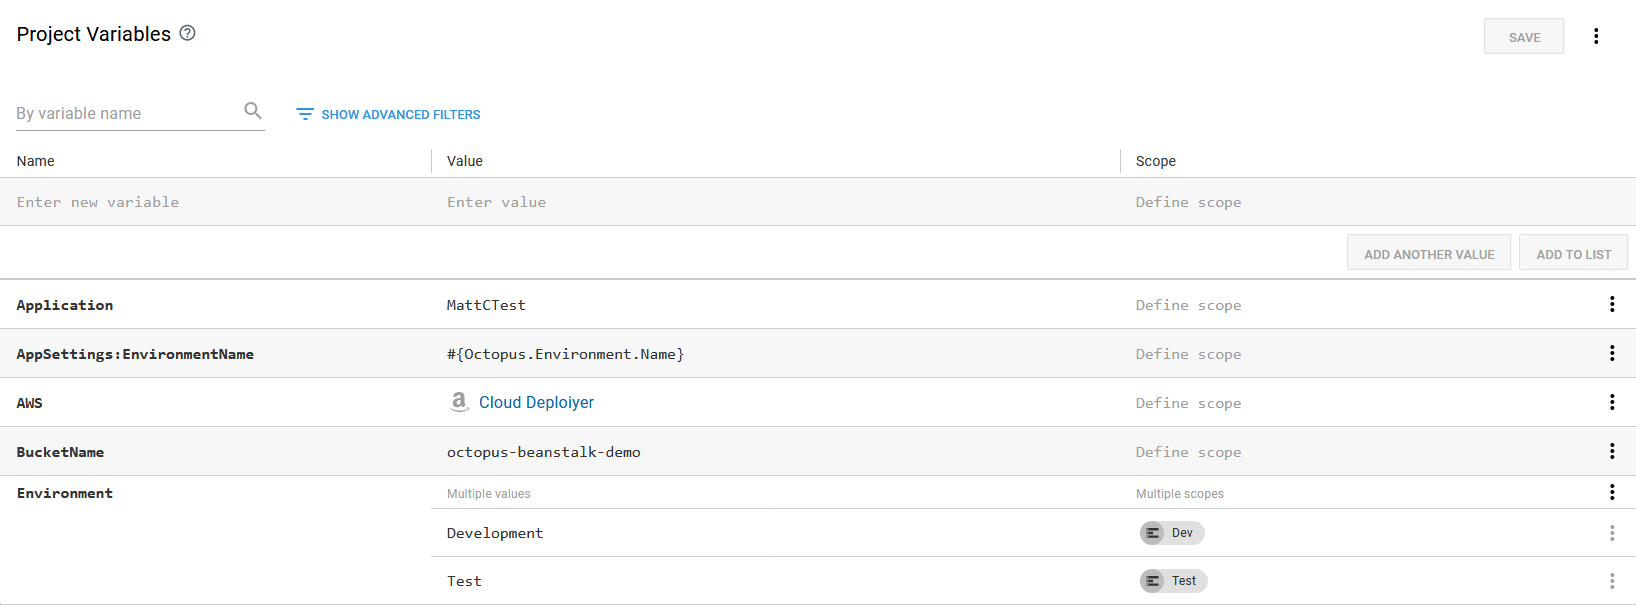
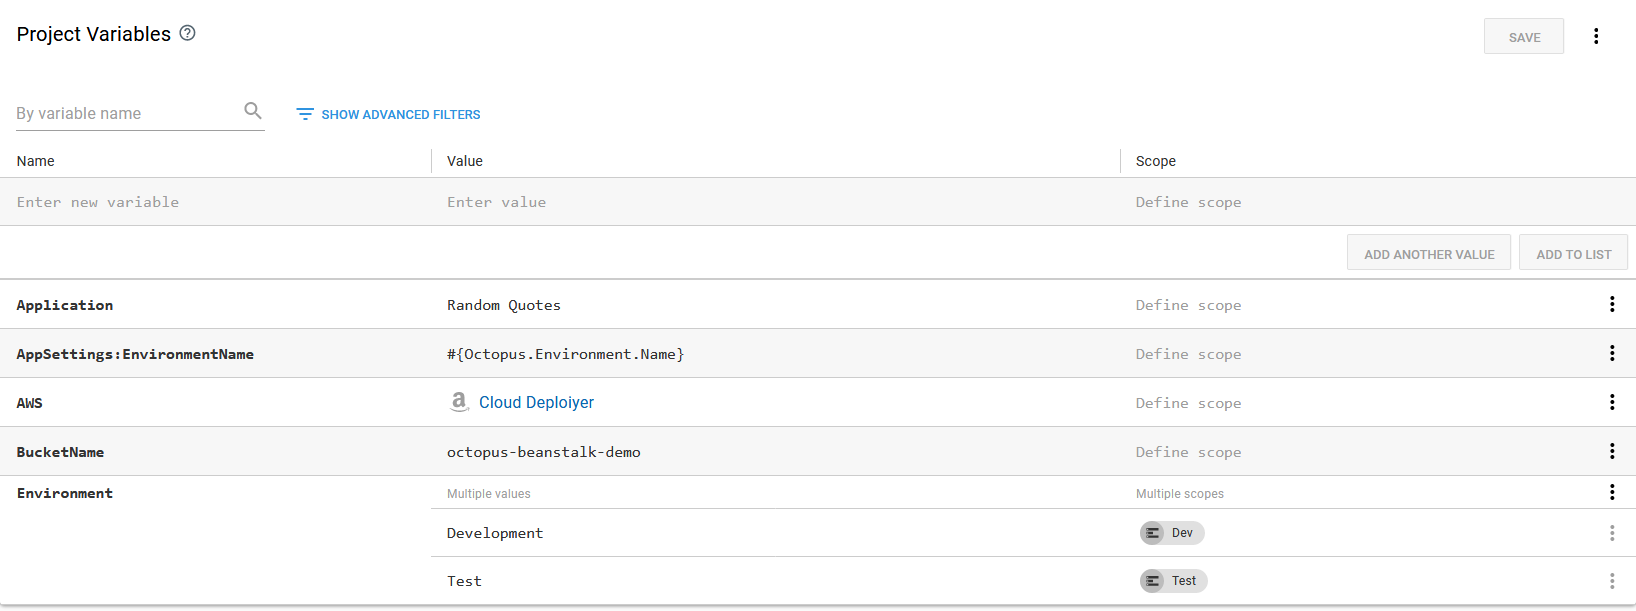
Added the Beanstalk application

diff --git a/blog/2019-09/deploy-to-aws-beanstalk/index.md b/blog/2019-09/deploy-to-aws-beanstalk/index.md
@@ -10,7 +10,7 @@ tags:
  - Octopus
 ---
 
-Elastic Beanstalk is a Platform as a Service (PaaS) offering provided by AWS that allows developers to deploy code written in a variety of languages such as .NET, Java, PHP, Node.js, Go, Python and Ruby onto preconfigured infrastructure. You simply upload your application, and Elastic Beanstalk automatically handles the details of capacity provisioning, load balancing, scaling, and application health monitoring.
+Elastic Beanstalk is a Platform as a Service (PaaS) offering from AWS that allows developers to deploy code written in a variety of languages such as .NET, Java, PHP, Node.js, Go, Python and Ruby onto preconfigured infrastructure. You simply upload your application, and Elastic Beanstalk automatically handles the details of capacity provisioning, load balancing, scaling, and application health monitoring.
 
 The lifecycle of a Beanstalk application shares much in common with Octopus. Beanstalk defines the idea of an application being deployed to multiple isolated environments, with each environment potentially having unique settings. The overlap means Octopus can add a lot of value to deployments in Beanstalk.
 
@@ -20,7 +20,7 @@ However Beanstalk has some unique requirements that we need to take into account
 
 Before we can deploy to Beanstalk we need to understand how Beanstalk is organized.
 
-At the top level of any Beanstalk deployment is the Application. Conceptually, a Application is a space that contains Application Versions and Environments. Typically a Application would be named to identify the deployment that it represents. In this blog post we will be deploying the [Random Quotes](https://github.com/OctopusSamples/RandomQuotes) application, so the Beanstalk Application will be called Random Quotes.
+At the top level of any Beanstalk infrastructure is the Application. Conceptually, an Application is a space that contains Application Versions and Environments. Typically an Application would be named to identify the deployment that it represents. In this blog post we will be deploying the [Random Quotes](https://github.com/OctopusSamples/RandomQuotes) application, so the Beanstalk Application will be called Random Quotes.
 
 An Application Version is a copy of the code that is deployed to an Environment. Each Application Version has a unique Version Label. The Version Label doesn't mandate any particular versioning scheme though, just that each is unique.
 
@@ -28,11 +28,11 @@ Finally we have the Environments. An Environment is the physical infrastructure 
 
 ![](workflow.png "width=500")
 
-*The relationship between applications, application versions and environments.*
+*The Beanstalk deployment lifecycle.*
 
 ## The Beanstalk application packaging requirements
 
-The other major consideration we need to take into account is how Beanstalk packages code for deployment.
+The other major consideration we need to take into account is how Beanstalk expects packages to be structured for deployment.
 
 The types of packages accepted by Beanstalk depends largely on the programming language that was used to create the code.
 
@@ -46,21 +46,21 @@ In the case of .NET Core, the deployable artifact is a ZIP file containing a JSO
 
 *The contents of a ZIP file containing a .NET Core application to be deployed to Beanstalk.*
 
-We will have to keep these nested archives in mind as take full advantage of the features provided by Octopus as part of the deployment process.
+We will have to keep these nested archives in mind in order to take full advantage of the features provided by Octopus as part of the deployment process.
 
 ## The sample application
 
-The sample application we will be deploying is called [Random Quotes](https://github.com/OctopusSamples/RandomQuotes). This is a simple .NET Core web application, which hasn't been designed to necessarily be deployed to Beanstalk.
+The sample application we will be deploying is called [Random Quotes](https://github.com/OctopusSamples/RandomQuotes). This is a simple .NET Core web application, which hasn't necessarily been designed to be deployed to Beanstalk.
 
 The generic nature of this application highlights some challenges that deployments to Beanstalk must take into account, specifically concerning how environment specific settings can be implemented without maintaining environment specific artifacts.
 
 Beanstalk Environments can define their own set of environment variables, which is the preferred way to configure the environment specific aspects of the applications they run. Storing all configuration in environment variables is the approach recommended by the [12 Factor App](https://12factor.net/config) methodology.
 
-But our sample application still has configuration baked into files, specifically the [appsettings.json](https://github.com/OctopusSamples/RandomQuotes/blob/master/RandomQuotes/appsettings.json) file. While we could leverage the `ASPNETCORE_ENVIRONMENT` environment variable to [select an appropriate settings file](https://visualstudiomagazine.com/articles/2019/03/01/managing-production-and-development.aspx), for this deployment process we'll customize the `appsettings.json` file during deployment.
+But our sample application still has configuration baked into files, specifically the [appsettings.json](https://github.com/OctopusSamples/RandomQuotes/blob/master/RandomQuotes/appsettings.json) file. While we could leverage the `ASPNETCORE_ENVIRONMENT` environment variable to [select an appropriate settings file](https://visualstudiomagazine.com/articles/2019/03/01/managing-production-and-development.aspx), for this deployment process we'll customize the `appsettings.json` file directly during deployment.
 
 To allow Octopus to modify files during deployment, we can not package the compiled code in a nested ZIP archive. Octopus has may features to replace values in files like [variable substitution](https://octopus.com/docs/deployment-process/configuration-features/substitute-variables-in-files) and [JSON configuration variables](https://octopus.com/docs/deployment-process/configuration-features/json-configuration-variables-feature), but these features all rely on processing archives that contain text files rather than additional nested archives.
 
-This means that the packaged code hosted by Octopus will contain the result of a call to `dotnet package`. It is then going to be up to us to repackage this file into the nested archive expected by Beanstalk.
+This means that the packaged code hosted by Octopus will contain the result of a call to `dotnet package`. It is then going to be up to us to repackage this file into the nested archive required by Beanstalk.
 
 Random Quotes has leveraged GitHub Actions to build the code, and you can see the workflow [here](https://github.com/OctopusSamples/RandomQuotes/blob/master/.github/workflows/aspnetcore.yml). There are 4 important jobs in this workflow that highlight how we package this application.
 
